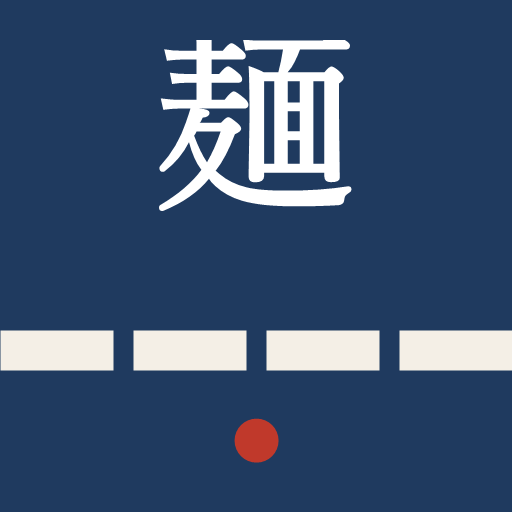
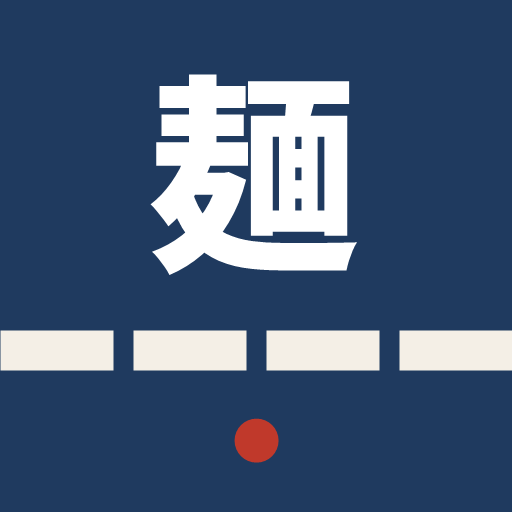
アイコンの「麺」を太いゴシック（Noto Sans JP Black）にする

Changed region(s): [[0.2812, 0.0625, 0.7188, 0.5312]]

diff --git a/sw.js b/sw.js
@@ -1,6 +1,6 @@
 // オフラインでも画面が開けるように、アプリのファイルをスマホに置いておく係（サービスワーカー）
 // ファイルを直したら CACHE の番号を上げる（上げないと古い画面のままになる）
-const CACHE = 'ramenlog-v7';
+const CACHE = 'ramenlog-v8';
 const FILES = ['./', 'index.html', 'style.css', 'app.js', 'manifest.webmanifest', 'data/sapporo-ramen.json', 'icons/icon.svg', 'icons/icon-192.png', 'icons/icon-512.png', 'icons/icon-maskable-512.png'];
 
 self.addEventListener('install', (e) => {
